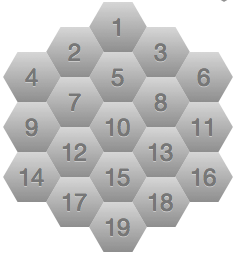
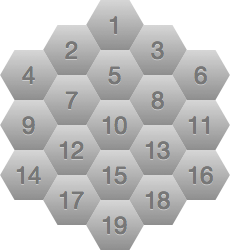
Typo and better image

diff --git a/README.md b/README.md
@@ -1,6 +1,6 @@
 # True CSS3-only convex polygons
 
-![Screenshot of a megahexagon, yay!][kizu.github.com/Polygons/Megahexagon.png]
+![Screenshot of a megahexagon, yay!](http://kizu.github.com/Polygons/Megahexagon.png)
 
 1. Use `overflow: hidden` on almost all blocks.
 2. Use `visibility: hidden` on all blocks except the last one.
